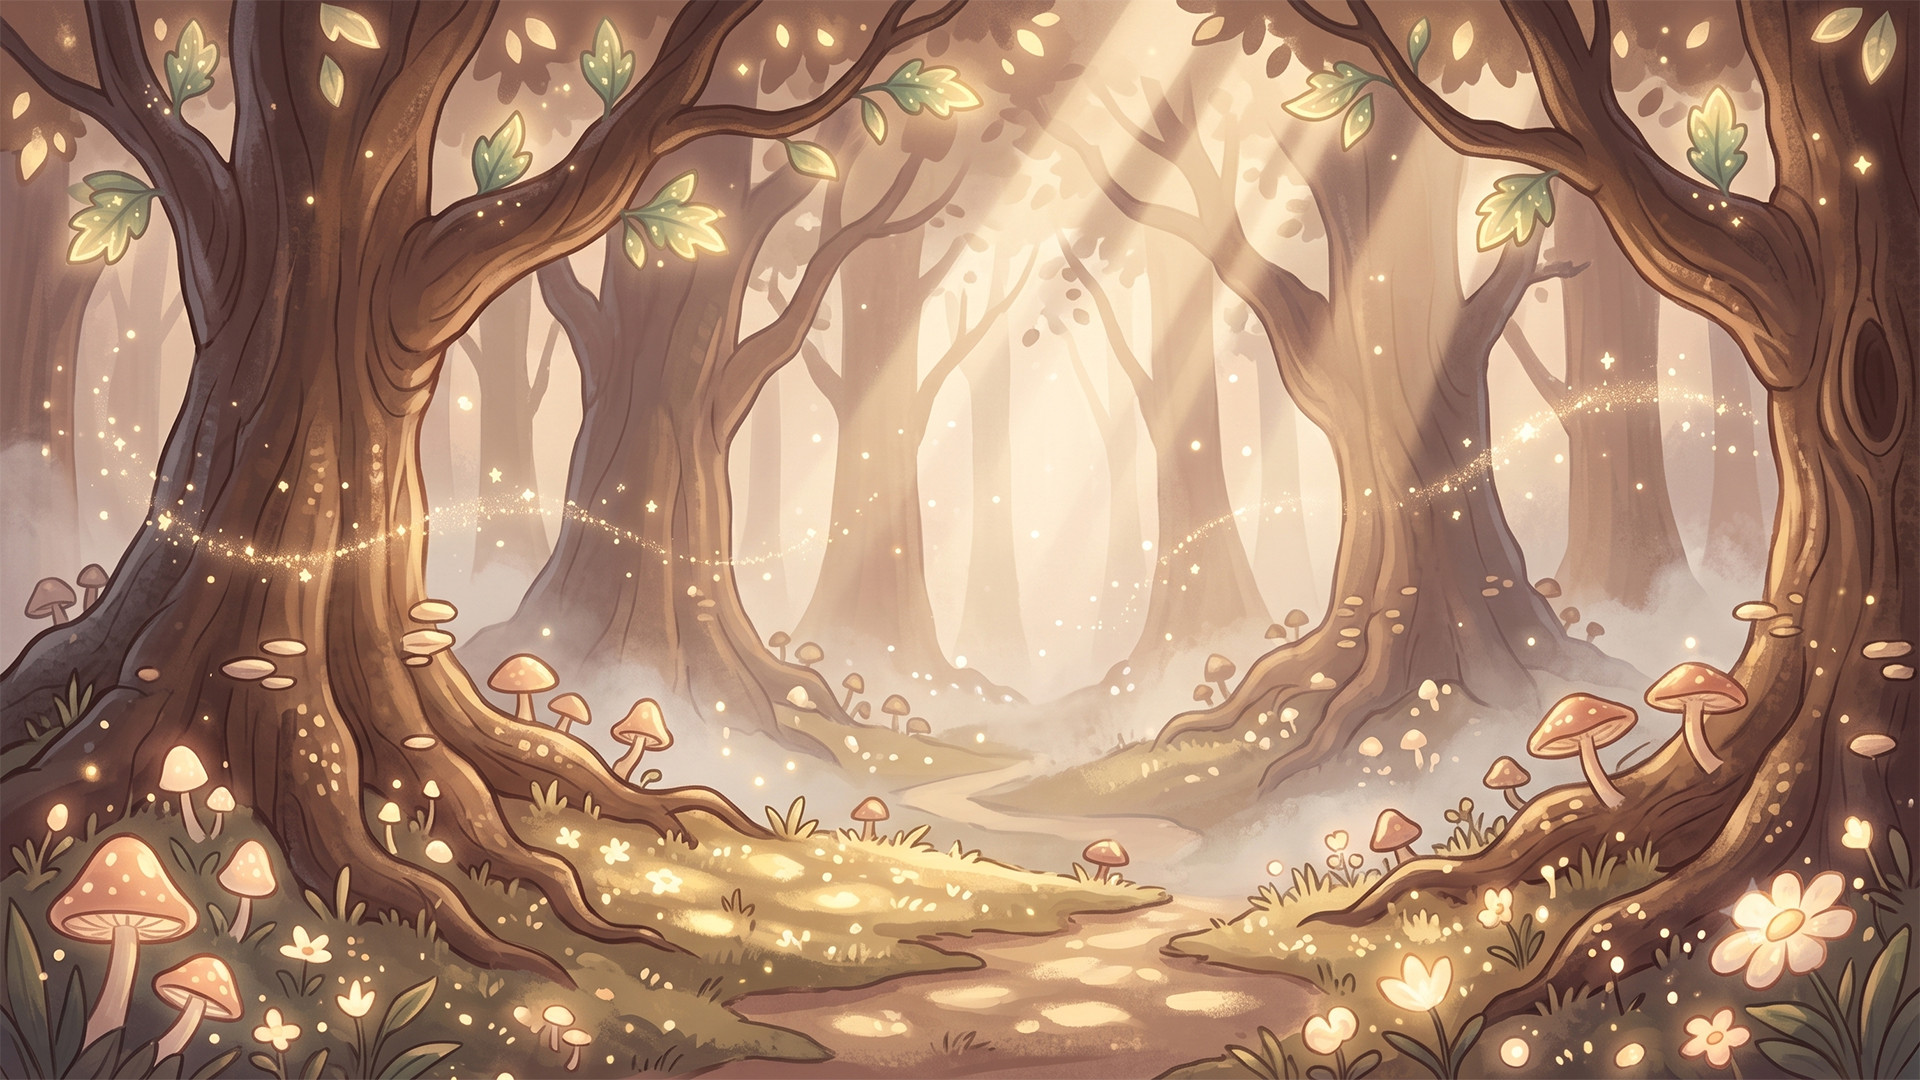
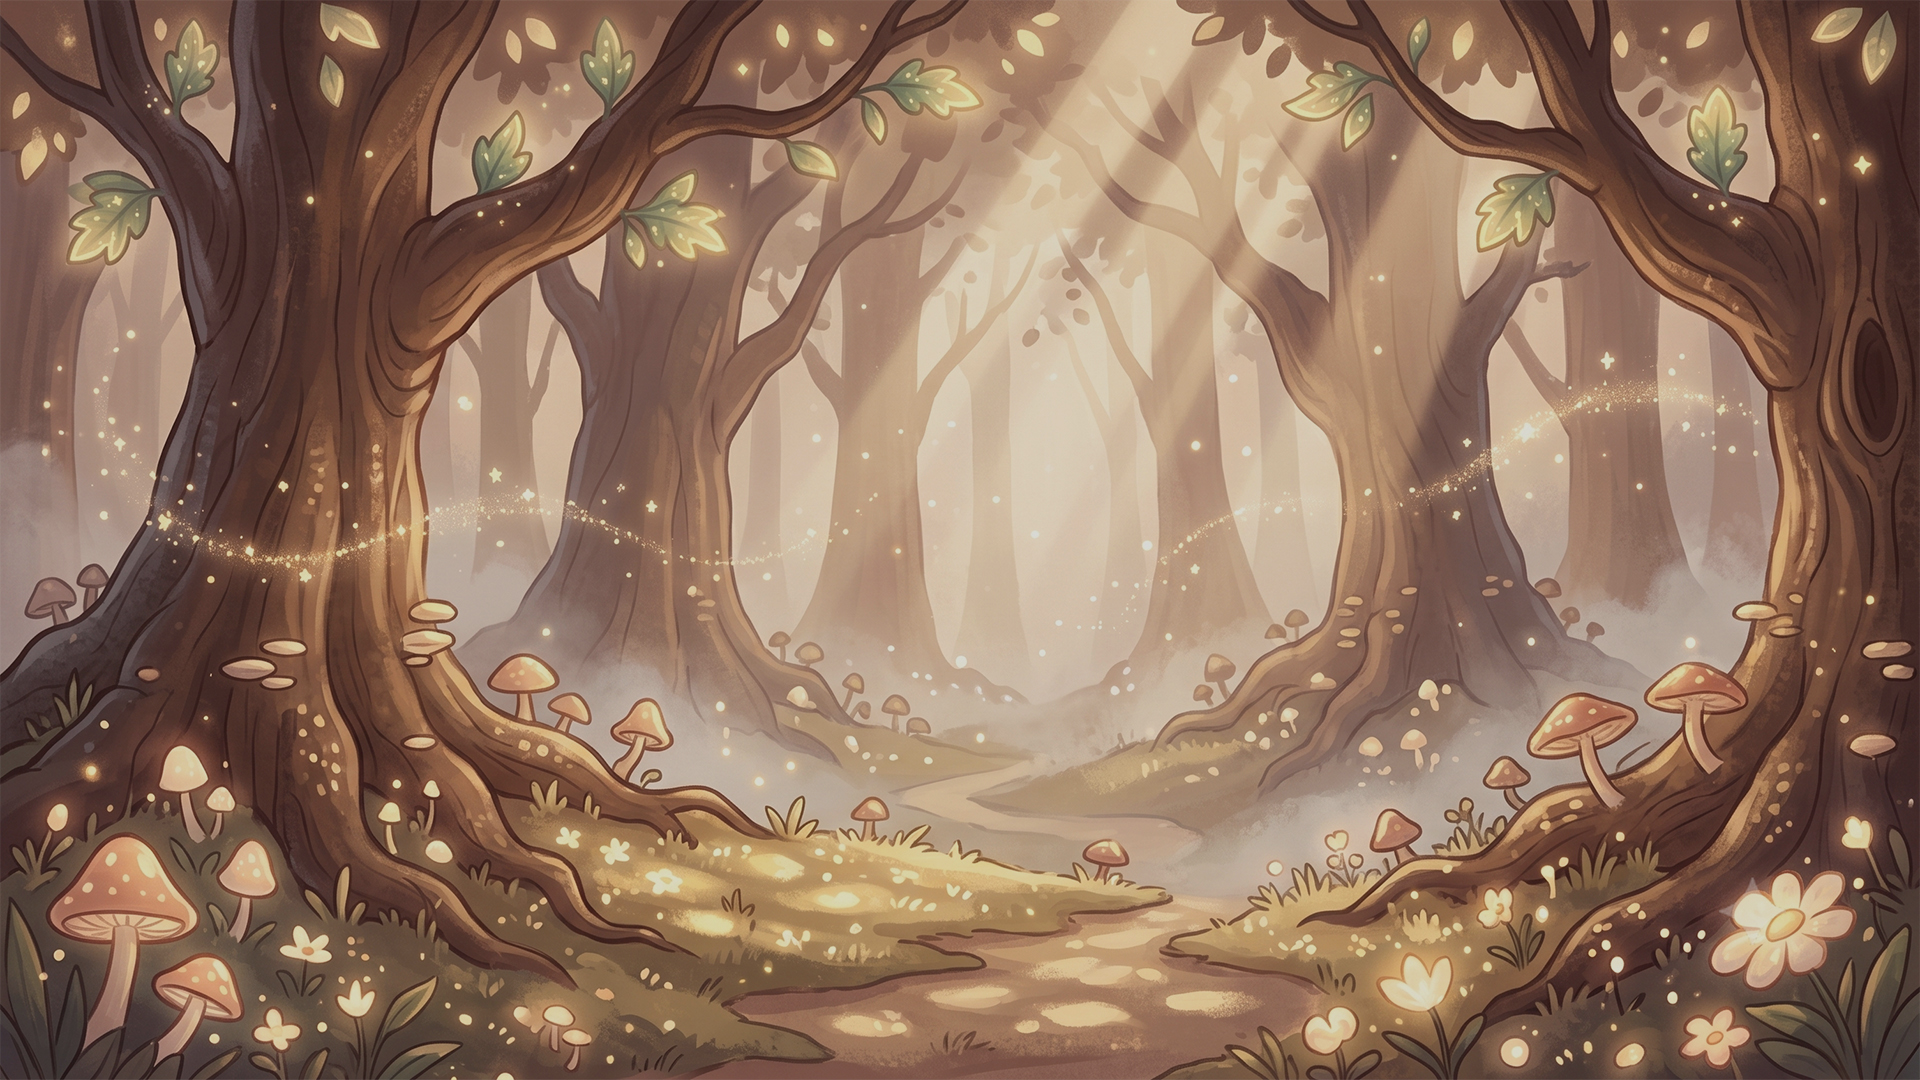
8.14

diff --git a/bamkong-guild/app/components/GuildSkills.tsx b/bamkong-guild/app/components/GuildSkills.tsx
@@ -1,0 +1,72 @@
+// app/components/GuildSkills.tsx
+'use client';
+import React, { useState } from 'react';
+import { ChevronDown, Sparkles } from 'lucide-react';
+
+export default function GuildSkills() {
+  const [isOpen, setIsOpen] = useState(false);
+
+  return (
+    <section id="skills" className="max-w-5xl mx-auto px-6 mb-16 relative z-10 scroll-mt-28">
+      <div className="bg-white/90 border border-amber-200/60 rounded-[2rem] shadow-lg overflow-hidden transition-all duration-300 hover:shadow-xl">
+        <button
+          onClick={() => setIsOpen(!isOpen)}
+          className="w-full p-6 md:p-8 flex items-center justify-between text-left hover:bg-amber-50/60 transition-colors group cursor-pointer"
+        >
+          <div className="flex items-center gap-4">
+            <div className="p-3 bg-amber-100 rounded-2xl text-amber-700 group-hover:scale-110 transition-transform">
+              <Sparkles className="w-6 h-6" />
+            </div>
+            <div>
+              <h3 className="text-xl md:text-2xl font-black text-stone-800">
+                밤콩 길드 스킬 현황 🌰
+              </h3>
+              <p className="text-sm text-stone-500 font-medium mt-1">
+                {isOpen ? '클릭하여 스킬 안내를 접습니다.' : '클릭하여 현재 적용 중인 길드 스킬을 확인해 보세요!'}
+              </p>
+            </div>
+          </div>
+          
+          <div className="p-2 rounded-full bg-amber-100/50 text-amber-700 group-hover:bg-amber-200/50 transition-colors">
+            <ChevronDown
+              className={`w-6 h-6 transition-transform duration-300 ${
+                isOpen ? 'rotate-180' : ''
+              }`}
+            />
+          </div>
+        </button>
+
+        {/* 아코디언 본문 (스킬 이미지 2개 영역) */}
+        {isOpen && (
+          <div className="p-6 md:p-8 border-t border-amber-100 bg-amber-50/30 flex flex-col items-center gap-6 animate-fadeIn">
+            <p className="text-stone-700 font-bold text-center break-keep bg-white/80 px-4 py-2 rounded-full border border-amber-200/50 text-sm md:text-base">
+              ✨ 밤콩 길드는 길드원 분들의 쾌적한 플레이를 위해 주요 길드 스킬을 지속해서 유지/강화하고 있습니다!
+            </p>
+            
+            {/* 스킬 이미지 2개 반응형 그리드 배치 (PC: 가로 2열, 모바일: 세로 1열) */}
+            <div className="w-full max-w-4xl grid grid-cols-1 md:grid-cols-2 gap-4 md:gap-6">
+              {/* 첫 번째 이미지 */}
+              <div className="rounded-2xl overflow-hidden border border-amber-200/80 shadow-md bg-white p-2 hover:-translate-y-1 transition-transform duration-300">
+                <img
+                  src="/images/guild-skills-1.jpg"
+                  alt="밤콩 길드 스킬 현황 1"
+                  className="w-full h-auto object-contain rounded-xl"
+                />
+              </div>
+              
+              {/* 두 번째 이미지 */}
+              <div className="rounded-2xl overflow-hidden border border-amber-200/80 shadow-md bg-white p-2 hover:-translate-y-1 transition-transform duration-300">
+                <img
+                  src="/images/guild-skills-2.jpg"
+                  alt="밤콩 길드 스킬 현황 2"
+                  className="w-full h-auto object-contain rounded-xl"
+                />
+              </div>
+            </div>
+            
+          </div>
+        )}
+      </div>
+    </section>
+  );
+}

diff --git a/bamkong-guild/app/page.tsx b/bamkong-guild/app/page.tsx
@@ -4,6 +4,7 @@ import Header from './components/Header';
 import HeroSection from './components/HeroSection';
 import InfoCard from './components/InfoCard';
 import CallToAction from './components/CallToAction';
+import GuildSkills from './components/GuildSkills';
 
 export default function BamkongGuildPage() {
   return (
@@ -67,6 +68,13 @@ export default function BamkongGuildPage() {
               ]}
             />
           </section>
+          <div className="flex flex-wrap justify-center gap-2 mb-6">
+            <span className="px-3 py-1 bg-amber-100 text-amber-800 rounded-full text-sm font-bold">#성인·친목</span>
+            <span className="px-3 py-1 bg-amber-100 text-amber-800 rounded-full text-sm font-bold">#TTS완비</span>
+            <span className="px-3 py-1 bg-amber-100 text-amber-800 rounded-full text-sm font-bold">#자율참여</span>
+            <span className="px-3 py-1 bg-amber-100 text-amber-800 rounded-full text-sm font-bold">#뉴비·복귀환영</span>
+          </div>
+          <GuildSkills />
           <CallToAction />
         </main>
 

diff --git a/bamkong-guild/app/components/Header.tsx b/bamkong-guild/app/components/Header.tsx
@@ -11,6 +11,7 @@ export default function Header() {
         </a>
         <nav className="flex gap-6 text-sm font-bold text-stone-700">
           <a href="#about" className="hover:text-amber-700 text-lg transition-colors">길드 소개</a>
+          <a href="#skills" className="hover:text-amber-700 text-lg transition-colors">길드 스킬</a>
           <a href="#contact" className="hover:text-amber-700 text-lg transition-colors">오픈 카톡</a>
         </nav>
       </div>

diff --git a/bamkong-guild/app/components/CallToAction.tsx b/bamkong-guild/app/components/CallToAction.tsx
@@ -15,7 +15,7 @@ export default function CallToAction() {
         <img 
           src="/images/cta-sign.png" 
           alt="가입 문의 안내소" 
-          className="w-48 h-48 md:w-56 md:h-56 object-contain"
+          className="w-48 h-48 md:w-66 md:h-66 object-contain"
         />
       </a>
       
